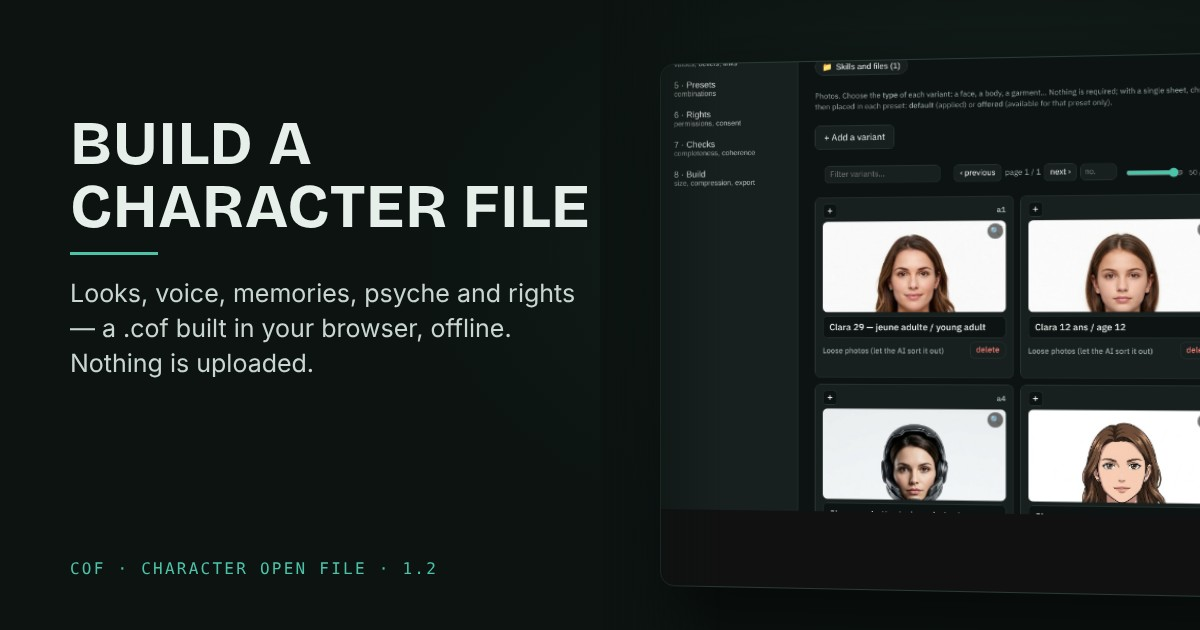
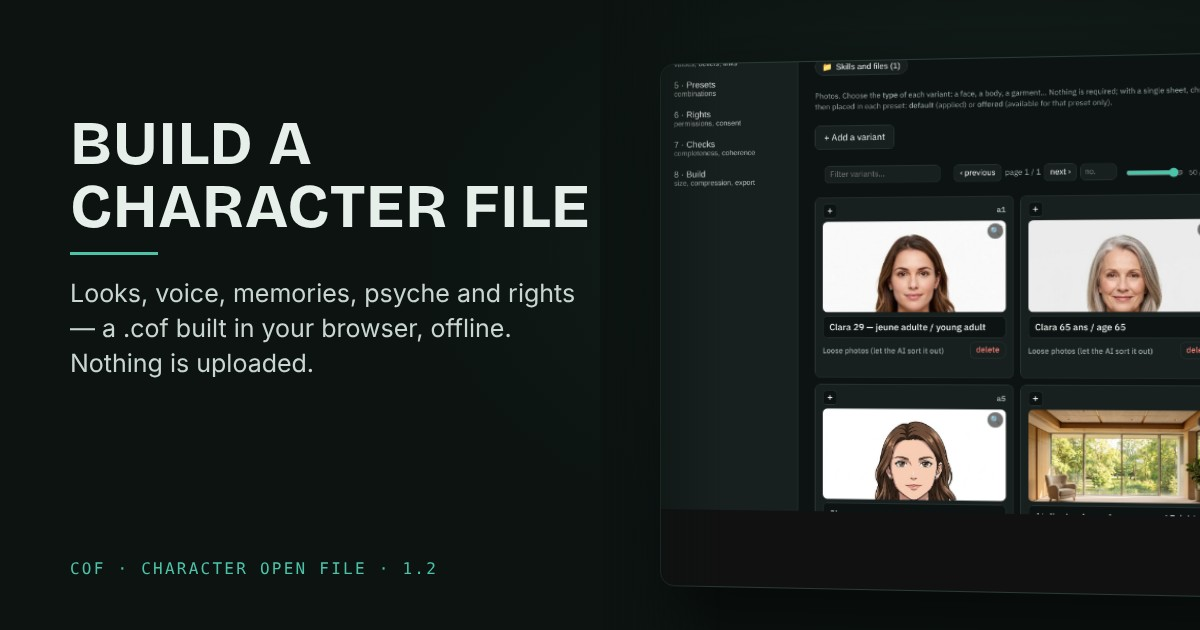
Share cards of the builder and the explorer: no age under 18 on screen
Both cards showed Clara's childhood variant (« 12 ans / age 12 », « Clara at 12 »,
and the child's portrait tile in the builder). tools/og-cards/make.js now removes,
before each capture, every listed item that states an age under 18 (preset rows,
age chips, variant tiles, the summary line) and stops if one is left on screen.
Same texts, same 1200 × 630 format, same file names. Checked by OCR: no age
under 18 on either card; the other share images had none.

Claude-Session: https://claude.ai/code/session_01CMATJLnayM1aeWbdkE6sfv

Changed region(s): [[0.8325, 0.6333, 1.0, 0.8143], [0.7092, 0.6635, 0.8017, 0.8143], [0.8942, 0.3619, 0.9867, 0.5127]]

diff --git a/tools/og-cards/make.js b/tools/og-cards/make.js
@@ -1,6 +1,9 @@
 // Share cards (1200 × 630) for the builder and the explorer: a fresh screenshot of each tool in dark theme, Clara loaded,
 // set in a card drawn like psyche/img/og-psyche.jpg and import/og-import.jpg (title, rule, tagline, footer line).
 //   node tools/og-cards/make.js [repo-root]        → builder/og-builder.jpg, viewer/og-explorer.jpg
+// Rule for every communication visual: NO age under 18 on screen, and no face of a variant under 18. Clara's example has a childhood
+// variant (it is there to show the age rules), so both captures drop every item that states an age under 18 before the shot
+// (the preset rows, the age chip, the variant tile, the summary line « from age 12 … »), and the script stops if one is left.
 // Needs playwright, python with cof-cli importable from cli/ (packs spec/examples/10-clara-mercier for the builder shot).
 const { chromium } = require("playwright"); const fs = require("fs"), path = require("path"), http = require("http"), os = require("os"), { spawnSync } = require("child_process");
 const ROOT = path.resolve(process.argv[2] || path.join(__dirname, "..", "..")); const WORK = fs.mkdtempSync(path.join(os.tmpdir(), "og-"));
@@ -25,6 +28,20 @@ html,body{margin:0;width:1200px;height:630px;overflow:hidden;background:#0c1311;
 <div class="t">${title}</div><div class="r"></div><div class="s">${tagline}</div>
 <div class="f">COF · CHARACTER OPEN FILE · ${VER}</div></body></html>`;
 
+/* an age under 18 as the tools write it: « 12 ans », « age 12 », « at 12 », « à 12 ans », « de 12 à 65 ans » */
+const MINOR = String.raw`(?:\b(?:age|aged|at|âge|de|à)\s*(?:1[0-7]|[0-9])\b|\b(?:1[0-7]|[0-9])\s*(?:ans|years?|yo)\b)`;
+/* removes, in the page, the smallest listed block that states a minor's age; returns what was removed */
+const dropMinors = ([re, sel]) => { const R = new RegExp(re, "i"), gone = [];
+  for (const e of document.querySelectorAll(sel)) { const t = (e.innerText || "") + " " + [...e.querySelectorAll("input")].map(i => (i.dataset.k === "age" ? "age " : "") + i.value).join(" ");
+    if (R.test(t)) { gone.push(t.replace(/\s+/g, " ").trim().slice(0, 40)); e.remove(); } } return gone; };
+/* what is still visible in the window and states a minor's age (texts and field values) */
+const leftMinors = (re) => { const R = new RegExp(re, "i"), out = [], seen = e => { const r = e.getBoundingClientRect(); return r.width > 0 && r.height > 0 && r.bottom > 0 && r.top < innerHeight; };
+  const w = document.createTreeWalker(document.body, NodeFilter.SHOW_TEXT); while (w.nextNode()) { const n = w.currentNode; if (R.test(n.textContent) && n.parentElement && seen(n.parentElement)) out.push(n.textContent.trim().slice(0, 40)); }
+  for (const i of document.querySelectorAll("input,textarea")) if (seen(i) && R.test((i.dataset.k === "age" ? "age " : "") + i.value)) out.push("field: " + i.value.slice(0, 40)); return out; };
+const noMinor = async (page, sel, what) => { const gone = await page.evaluate(dropMinors, [MINOR, sel]); await page.waitForTimeout(300);
+  const left = await page.evaluate(leftMinors, MINOR); console.log(what + ": removed " + gone.length + " item(s) stating an age under 18" + (gone.length ? " (" + gone.join(" ; ") + ")" : ""));
+  if (left.length) throw new Error(what + ": an age under 18 is still on screen: " + left.join(" ; ")); };
+
 (async () => {
   await new Promise(r => server.listen(0, r)); const BASE = `http://localhost:${server.address().port}`;
   const browser = await chromium.launch({ args: ["--disable-dev-shm-usage"] });
@@ -32,6 +49,7 @@ html,body{margin:0;width:1200px;height:630px;overflow:hidden;background:#0c1311;
   let page = await browser.newPage({ viewport: { width: 1280, height: 860 }, deviceScaleFactor: 1 });
   await page.addInitScript(() => { try { localStorage.setItem("cof-theme", "dark"); localStorage.setItem("cofv-lang", "en"); } catch (e) {} });
   await page.goto(`${BASE}/viewer/`, { waitUntil: "load" }); await page.click("#btnClara"); await page.waitForTimeout(4000);
+  await noMinor(page, "button.chip, button.pcard, .hero p.text", "explorer");
   await page.screenshot({ path: path.join(WORK, "explorer.png") });
   // 2. the builder, dark, Clara 1.2 loaded, elements step (the tiles)
   const clara = path.join(WORK, "clara12.cof");
@@ -47,7 +65,8 @@ html,body{margin:0;width:1200px;height:630px;overflow:hidden;background:#0c1311;
   await page.waitForTimeout(600); await page.click("#nav button[data-step=elements]"); await page.waitForTimeout(800);
   await page.getByRole("button", { name: /Appearance/ }).first().click(); await page.waitForTimeout(900);   /* the looks: tiles with faces */
   await page.evaluate(() => { const t = document.querySelector("#elPanel .tiles"); if (t) window.scrollTo(0, t.getBoundingClientRect().top + scrollY - 250); });
-  await page.waitForTimeout(500); await page.screenshot({ path: path.join(WORK, "builder.png") });
+  await page.waitForTimeout(500); await noMinor(page, "#elPanel .variant", "builder");
+  await page.screenshot({ path: path.join(WORK, "builder.png") });
   // 3. the cards
   const out = [["builder/og-builder.jpg", "Build a character file", "Looks, voice, memories, psyche and rights — a .cof built in your browser, offline. Nothing is uploaded.", "builder.png", 150],
                ["viewer/og-explorer.jpg", "Open a character file", "Presets, looks, voices, memories, psyche and rights of a .cof, in your browser. Nothing leaves your machine.", "explorer.png", 0]];
